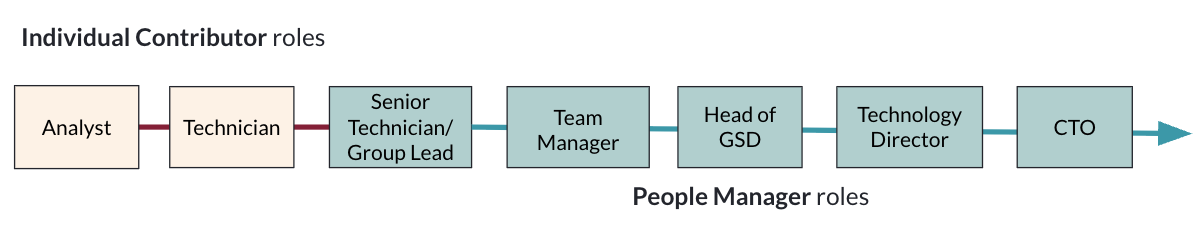
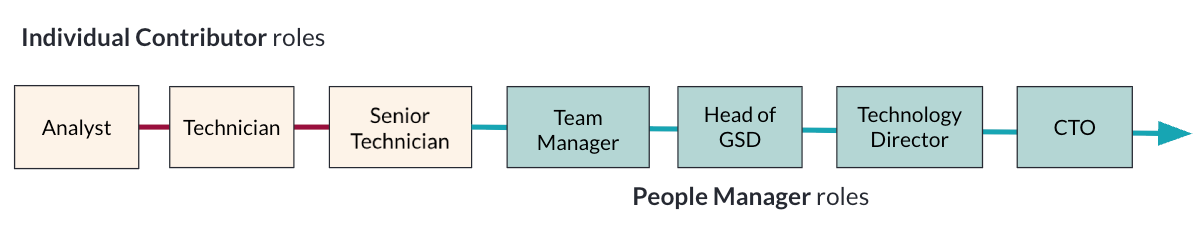
Apply changes to the job family page for GSD
These changes were slacked to me from Chris Hall.

diff --git a/site/pages/job-families.md b/site/pages/job-families.md
@@ -17,7 +17,7 @@ Engineers at early stages are Individual Contributors (hands-on), and later have
 
 ## Global Service Desk
 
-Progression within Individual contributor roles can be achieved through the promotion process. Those choosing to pursue a People Manager role must demonstrate the competences and experience necessary, and complete a successful interview when a specific business need/role is available.
+In the Global Service Desk - interviews are required to progress from individual contributor roles, into people manager / roles, however - progression from Analyst to Technician can be completed through promotion board or by interview.
 
 ![A diagram showing the different progression paths in Global Service Desk](/media/service-desk-roles.png)
 
